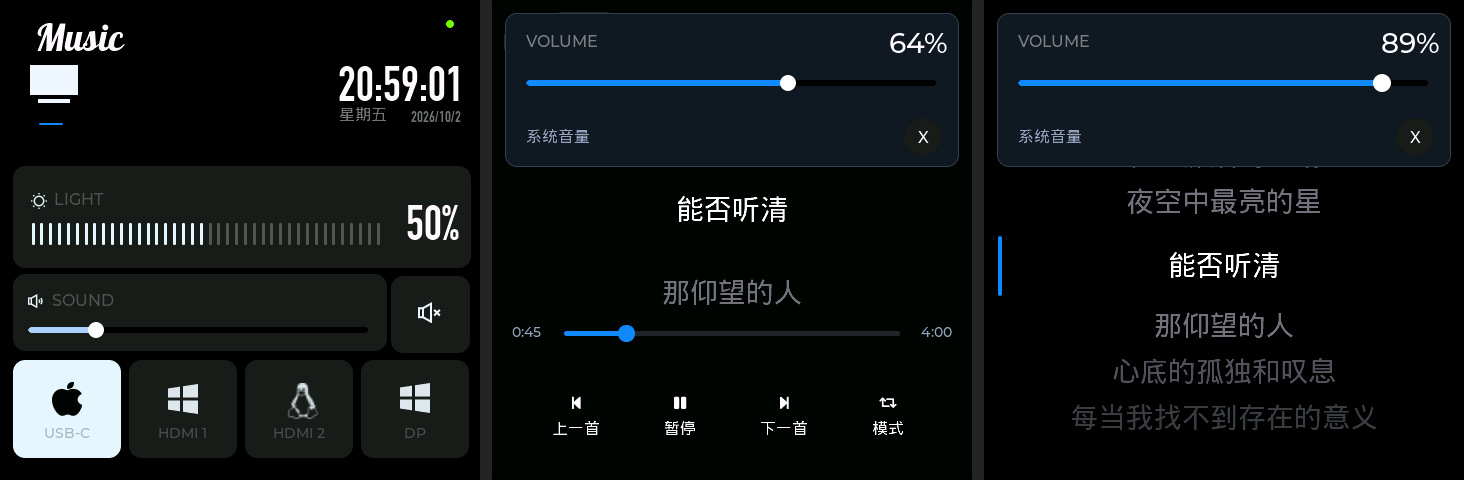
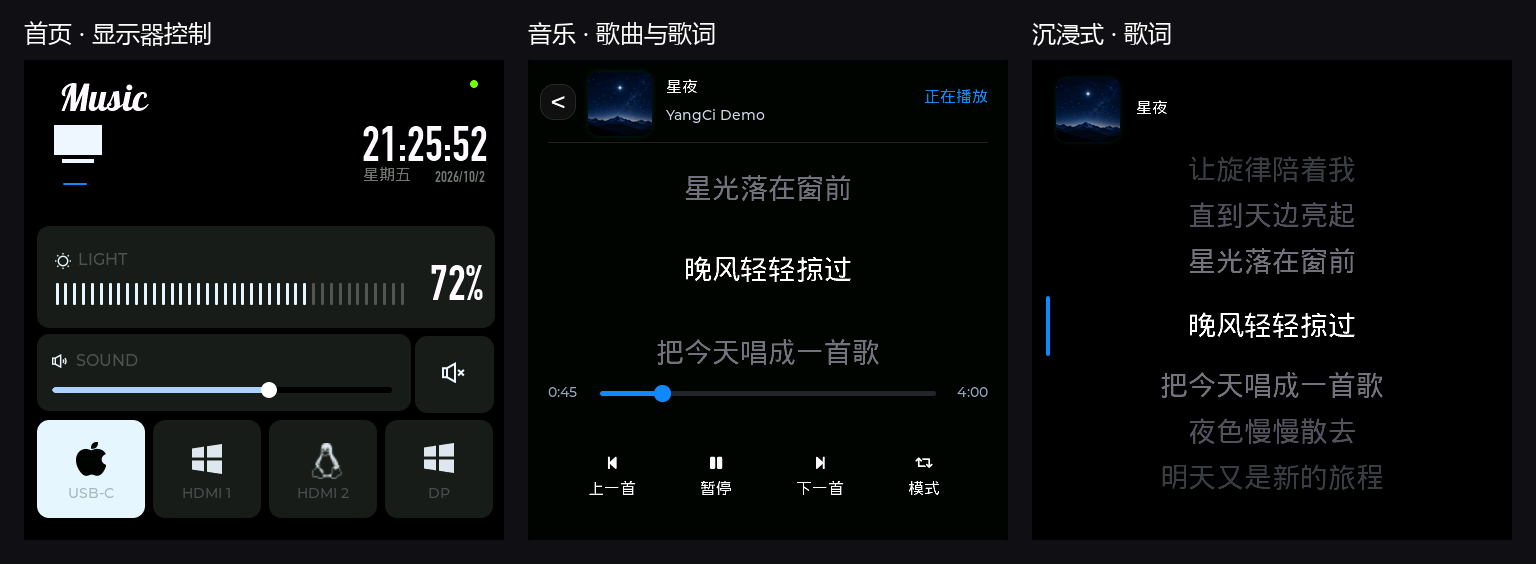
docs: explain desktop and Touch features with complete UI previews

diff --git a/README.md b/README.md
@@ -21,46 +21,83 @@ YangCi brings display controls into one desktop experience. It combines an
 Electron control center, a native Rust DDC/CI sidecar, and an optional 480×480
 ESP32-S3 touch controller called **AZORIA Touch**.
 
-The project is designed to run locally. Display control, Touch discovery, and
-coordination stay on the host or trusted private network; no cloud service is
-required for normal operation.
+The desktop app works independently; add Touch to keep display controls, music,
+lyrics, and wallpapers within reach. Display control and device communication
+stay on the host or trusted private network. Online lyric matching and artwork
+lookup contact the corresponding music services and require internet access.
+
+## Desktop app
+
+### Display controls
+
+![YangCi desktop: display selection, brightness, audio, input targets, and mute](docs/images/yangci-desktop-control.jpg)
+
+Choose a display, adjust brightness and audio, toggle mute, and select
+DisplayPort, HDMI 1, HDMI 2, USB-C, or the laptop's internal panel target. YangCi
+probes video-link DDC/CI and vendor USB HID routes and supports built-in or
+imported monitor profiles. External-monitor audio and input support depend on
+the monitor. For Windows / Linux internal-panel targets, volume and mute control
+the system's default playback device, including headphones.
+
+### Music and lyrics
+
+![YangCi desktop: artwork, track information, playback controls, and synchronized lyrics](docs/images/yangci-desktop-music.jpg)
+
+Read track, artist, album, artwork, and playback progress from system media
+sessions, with support for NetEase Cloud Music, QQ Music, and other desktop or
+browser players that expose media sessions. Match lyrics through NetEase, QQ
+Music, or LRCLIB and highlight the current line as playback advances.
+
+Control previous / next, play / pause, seeking, and playback modes where the
+player exposes those capabilities. Click a lyric line to seek; when seeking is
+unavailable, clicking can calibrate lyric timing. Connected Touch devices receive
+track information, lyrics, and playback state.
+
+### Touch setup, wallpaper, and scheduled sleep
+
+![YangCi desktop: Touch connection, Wi-Fi setup, scheduled sleep, and wallpaper](docs/images/yangci-desktop-touch.jpg)
+
+| Feature | What it does |
+| --- | --- |
+| Device setup | Identify Touch over USB, prepare Bluetooth and connect through BLE; optionally scan and configure 2.4 GHz Wi-Fi over USB for automatic LAN discovery. |
+| Still / video wallpaper | Center-crop media to 480×480 and convert it into a Touch-compatible package for LAN synchronization. TF storage takes priority: videos up to 10 seconds, targeting 25 frames, with a 24 MB package limit; without a card, keep packages under 3 MB. |
+| Idle wallpaper | Enter wallpaper after 1, 5, 10, or 30 idle minutes, or disable automatic entry. Tap the wallpaper to return. |
+| Scheduled sleep | Configure a backlight-off interval, including overnight schedules; backlight resumes when the interval ends. Disabled by default, with a preset of 23:00–07:00. |
+| Diagnostics | View control success rate, average / P95 latency, route failures, readback mismatches, and recent events. |
+| Profiles and development | Use the profile wizard or import a profile in Settings. Enable the normally hidden Developer page to select an application firmware image, verify device identity and file hash, and flash over USB. |
 
 ## AZORIA Touch interface
 
-![AZORIA Touch: Music entry, music volume panel, and immersive lyrics volume panel](docs/images/azoria-touch-ui-overview.png)
+![AZORIA Touch normal views: display controls, music, and immersive lyrics](docs/images/azoria-touch-ui-overview.png)
 
-| Music: swipe down for volume | Immersive lyrics: swipe down for volume |
+| View | Features and gestures |
 | --- | --- |
-| ![Music view with the system volume panel open](docs/images/azoria-touch-music-volume.png) | ![Immersive lyrics with the system volume panel open](docs/images/azoria-touch-immersive-volume.png) |
+| Home | Time and connection status, display brightness, audio, mute, and input targets. Swipe down from the top to adjust the small screen's backlight. |
+| Music | Tap the **Music** wordmark to see artwork, track information, lyrics, progress, and playback controls. |
+| Immersive lyrics | Tap the current lyric to enter a large-text lyric view; tap the page to return to Music. |
+| Volume gesture | Swipe down from the top of either music view to adjust volume, synchronized with Home and Desktop. Swipe up or tap × to close and stay on the current page. Home's backlight panel also closes with a swipe up. |
+| Wallpaper | Tap the computer icon below Music or wait for the configured idle interval. Tap once to return. |
 
-Current 480×480 UI rendered directly with LVGL using sample music data. Tap the
-Music wordmark to enter music; swipe down from the top of either music view to
-adjust system volume, then swipe up or tap × to close the panel and stay on that
-page. The home screen's backlight panel also supports swipe-up dismissal.
+BLE works independently for everyday controls, track information, and lyrics.
+**Artwork and wallpaper synchronization require Touch and Desktop on the same
+LAN.** Live playback uses artwork from the player or supported music service;
+the documentation's demo cover does not replace live track artwork.
 
-The optional Touch controller puts everyday display actions within reach while
-the Desktop app handles discovery, coordination, native DDC/CI access, and
-firmware management in the background.
+Desktop screenshots render the current React components; Touch screenshots
+render the current 480×480 LVGL implementation. Device status, the fictional
+track “星夜 / YangCi Demo,” and lyrics are demonstration data, with original demo
+artwork. See [screenshot and asset notes](docs/images/README.md).
 
-When a TF card is available, Touch stores wallpaper packages on the card and
-accepts Desktop-generated videos up to 10 seconds, targeting 25 frames, and
-24 MB. Without a card it falls back to the onboard data partition and a package
-limit near 3 MB. For the enclosure, print
-`hardware/enclosure/azoria-touch-all-v3.stl` to produce the front, rear, and both
-stand designs on one plate without the fit test coupon.
+For the enclosure, print `hardware/enclosure/azoria-touch-all-v3.stl` to produce
+the front, rear, and both stand designs on one plate without the fit test coupon.
 
-## Why YangCi
+## Architecture and device capabilities
 
-- **One control surface** for brightness, volume, mute, and input switching.
-- **Real transport probing** across video-link DDC/CI and vendor USB HID paths.
-- **Multi-monitor targeting** across enumerated DDC/CI displays.
-- **Native hardware access** through a Rust sidecar for macOS, Windows, and Linux.
-- **Optional physical controller** with BLE and private-LAN connectivity.
-- **TF-card wallpapers** with still images and up to 10 seconds of Desktop-converted video.
-- **Synchronized music view** with lyrics, playback controls, progress, and artwork from desktop or browser players.
-- **Resilient coordination** when multiple Desktop instances can reach the same display.
-- **Safe firmware workflow** with image type, version, device identity, size, and SHA-256 checks.
-- **Declarative monitor profiles** with validated, non-executable configuration.
+- Electron + React desktop UI with allowlisted IPC into local services.
+- Native Rust sidecar for DDC/CI, LG USB HID/DDC, and supported internal-panel controls.
+- Optional Touch controller with independent BLE and private-LAN connections.
+- Coordinated command execution across multiple Desktop instances, including duplicate-command suppression.
+- Firmware BLE OTA service with size and SHA-256 checks; Desktop provides USB application-image flashing.
 
 ## How it fits together
 
@@ -149,7 +186,8 @@ Select this `firmware.bin` from the **Developer** page in YangCi. Do not
 select `bootloader.bin` or `partitions.bin`; those files are not accepted by the
 Desktop flashing workflow.
 
-To upload directly with PlatformIO:
+To upload directly with PlatformIO (replace the port with your device's port;
+for example, `COM7` on Windows):
 
 ```bash
 cd firmware
@@ -225,10 +263,6 @@ schema and the validated LG 32UQ85R mapping.
 ## Connectivity and security
 
 - BLE and Wi-Fi can independently connect AZORIA Touch to YangCi.
-- Tap the Music wordmark on Touch to view the current track and control previous,
-  play/pause, next, and playback mode through the local network.
-- Swipe down from the top of either music or immersive lyrics view to open the
-  system volume panel. Swipe up or tap × to dismiss it without leaving the current view.
 - LAN coordination uses TCP `8732`, UDP `8733`, and UDP `8734`.
 - Network services reject public-source traffic and are intended only for a
   trusted private network.

diff --git a/README.zh-CN.md b/README.zh-CN.md
@@ -9,37 +9,75 @@
 
 </div>
 
-一个本地运行的桌面显示器控制项目。YangCi 是主控制端，AZORIA Touch
-是可选的 480×480 ESP32-S3 实体输入终端。
+YangCi 是本地运行的桌面控制中心：调节显示器、查看正在播放的音乐和歌词，
+并管理可选的 **AZORIA Touch** 小屏。桌面 App 可独立使用；接入 480×480 ESP32-S3
+触摸屏后，常用控制、歌词和壁纸就能放在手边。
 
-## AZORIA Touch 界面
+显示器控制和设备通信在本机或私有局域网内完成。在线歌词匹配与封面补全会访问
+对应音乐服务，因此这部分需要网络。
 
-![AZORIA Touch：Music 入口、普通音乐页音量面板、沉浸式歌词音量面板](docs/images/azoria-touch-ui-overview.png)
+## 桌面端 App
 
-| 普通音乐页：下滑调节音量 | 沉浸式歌词：下滑调节音量 |
+### 显示器控制
+
+![YangCi 桌面 App：显示器选择、亮度、音量、信号源与静音](docs/images/yangci-desktop-control.jpg)
+
+选择当前控制的显示器，调节亮度、音量和静音，切换 DisplayPort、HDMI 1、HDMI 2、
+USB-C 或笔记本内屏目标。程序自动探测视频链路 DDC/CI 与 USB HID 路径，并支持
+内置或导入的显示器配置表。外接屏的音量与信号源能力取决于显示器；选择 Windows / Linux
+笔记本内屏时，音量和静音控制系统默认播放设备，包括耳机。
+
+### 音乐与歌词
+
+![YangCi 桌面 App：封面、歌曲信息、播放控制与同步歌词](docs/images/yangci-desktop-music.jpg)
+
+读取系统媒体会话中的歌曲、歌手、专辑、封面和播放进度，适配网易云音乐、QQ 音乐
+以及提供媒体会话的其他桌面或网页播放器。歌词可从网易云、QQ 音乐或 LRCLIB 匹配，
+当前句随进度高亮。
+
+提供上一首、播放 / 暂停、下一首、进度拖动及播放模式控制；按钮是否可用由播放器
+实际提供的能力决定。点击歌词可跳转到该句；未提供跳转能力的播放器可用点击歌词
+校准同步进度。连接 Touch 后，歌曲信息、歌词和播放状态同步到小屏。
+
+### Touch 连接、壁纸与息屏
+
+![YangCi 桌面 App：Touch 连接、Wi-Fi 配置、定时息屏与壁纸](docs/images/yangci-desktop-touch.jpg)
+
+| 功能 | 使用方式 |
 | --- | --- |
-| ![普通音乐页打开系统音量面板](docs/images/azoria-touch-music-volume.png) | ![沉浸式歌词页打开系统音量面板](docs/images/azoria-touch-immersive-volume.png) |
+| 设备连接 | USB 识别 Touch、准备蓝牙并连接 BLE；也可通过 USB 扫描和配置 2.4 GHz Wi-Fi，随后自动发现局域网设备。 |
+| 图片 / 动态壁纸 | 上传图片或视频，自动居中裁切为 480×480 并转换成小屏可播放格式，通过局域网同步。TF 卡优先；动态壁纸最长 10 秒、目标 25 帧、最多 24 MB，无卡时壁纸需小于 3 MB。 |
+| 自动进入壁纸 | 无操作 1、5、10 或 30 分钟后进入，也可关闭；触摸壁纸返回控制页。 |
+| 定时息屏 | 自定义开始和结束时间，支持跨午夜；时段内关闭 Touch 背光，结束后恢复。默认关闭，预设时间为 23:00–07:00。 |
+| 诊断 | 查看控制成功率、平均 / P95 耗时、路径失败和回读不一致，以及最近事件。 |
+| 配置与开发 | 设置中使用配置向导或加载显示器配置表；开启默认关闭的开发者模式后，可选择应用固件，校验设备身份与文件哈希并通过 USB 刷写。 |
 
-以上为当前 480×480 界面的 LVGL 直接渲染预览，音乐内容使用示例数据。
-点击 Music 字标进入音乐页；普通音乐页和沉浸式歌词页均可从顶部下滑调节系统音量，
-向上滑动或点击 × 收起面板后仍停留在当前页面。首页的屏幕亮度面板也支持上滑收起。
+## AZORIA Touch 小屏
 
-Touch 负责把常用的显示器操作放在手边，Desktop 则在后台完成设备发现、协调、原生
-DDC/CI 访问和固件管理。
+![AZORIA Touch 正常页面：显示器控制、音乐与沉浸式歌词](docs/images/azoria-touch-ui-overview.png)
 
-## 功能
+| 页面 | 功能与操作 |
+| --- | --- |
+| 首页 | 查看时间、连接状态，调节显示器亮度、音量、静音和控制源；从顶部下滑调节小屏背光。 |
+| 音乐 | 点击左上角 **Music** 字标进入，显示封面、歌曲信息、歌词和播放进度，提供切歌、播放 / 暂停和模式切换。 |
+| 沉浸式歌词 | 点击音乐页的当前歌词进入，以大字显示当前句及前后歌词；点击页面返回普通音乐页。 |
+| 下滑调节音量 | 普通音乐页和沉浸式页面均可从顶部下滑调节音量，与首页和桌面端同步；向上滑动或点击 × 收起，仍停留在当前页面。首页的背光面板也支持上滑收起。 |
+| 壁纸 | 点击 Music 下方的电脑图标进入，或等待设置的空闲时间；触摸一次返回。 |
 
-- Electron 桌面控制中心，提供亮度、音量、静音和信号源控制；
-- 自动探测并确认整台显示器统一使用的 DDC/CI 承载路径；
-- 枚举多台 DDC/CI 显示器，并在桌面端切换当前控制目标；
-- 在桌面端检测 AZORIA Touch 并完成 Wi‑Fi 配置；
-- 在桌面端上传图片或视频壁纸，并自动同步到 Touch 的壁纸模式；
-- 优先使用 TF 卡保存壁纸，桌面端生成最长 10 秒、目标 25 帧的动态壁纸；
-- 同步桌面或网页播放器的歌曲、歌词、进度、播放控制和封面；
-- 设置中提供默认关闭的开发者模式，用于固件刷写和硬件诊断；
-- Desktop 主动发现、Touch 被动响应的 Wi‑Fi 局域网通信，以及 BLE 备用连接；
-- 固件内置带大小与 SHA-256 校验的 BLE OTA 服务；
-- Rust Sidecar 提供跨平台原生 DDC/CI 与 LG USB HID/DDC 控制。
+BLE 可独立用于日常控制、歌曲信息与歌词同步；**封面和壁纸同步需要 Touch 与桌面端
+接入同一局域网**。实际封面来自播放器或音乐服务，示例封面不会替换正在播放的歌曲封面。
+
+以上桌面截图由当前 React 界面渲染，小屏截图由当前 LVGL 界面直接渲染；设备状态、
+歌曲“星夜 / YangCi Demo”和歌词均为演示数据，封面为原创示例图。详见
+[截图与素材说明](docs/images/README.md)。
+
+## 架构与设备能力
+
+- Electron + React 桌面界面，通过白名单 IPC 调用本机服务；
+- Rust Sidecar 提供原生 DDC/CI、LG USB HID/DDC，以及平台支持的笔记本内屏控制；
+- Desktop 主动发现、Touch 被动响应，支持 BLE 和私有 Wi-Fi 局域网；
+- 多台 Desktop 在线时协调执行显示器命令，避免同一命令重复写入；
+- 固件内置带大小与 SHA-256 校验的 BLE OTA 服务；桌面端提供 USB 应用固件刷写入口。
 
 ## 目录
 
@@ -70,7 +108,7 @@ azoria-display-control/
 
 ## 快速开始
 
-开发环境需要 Node.js、Rust 和 PlatformIO。
+开发环境需要 Node.js 22 或更高版本与 Rust；仅构建小屏固件时需要 PlatformIO。
 
 ```bash
 npm install
@@ -90,7 +128,7 @@ Touch 通过 Wi‑Fi 或 BLE 建立连接后，由 Desktop 状态响应同步当
 偏移，因此屏幕时间跟随当前 Desktop，不依赖固定时区或单独的公网 NTP 服务。
 
 点击 Touch 控制页左上角的 Music 字标可打开音乐页。音乐页显示 Desktop 当前识别的
-歌曲、歌手和播放模式，并可通过局域网执行上一首、播放/暂停、下一首和模式切换。
+歌曲、歌手和播放模式，并可通过 BLE 或局域网执行上一首、播放/暂停、下一首和模式切换。
 在音乐页或沉浸式歌词页顶部向下滑动，可打开系统音量面板；调节后向上滑动或点击 × 收起，
 无需返回控制页。音量会与控制页及 Desktop 同步。
 
@@ -137,7 +175,8 @@ firmware/.pio/build/viewe_uedx48480040e_wb_a/firmware.bin
 固件版本来自 `firmware/version.txt`，构建前应先更新版本号。`.pio/` 是本地构建目录，
 不会提交到仓库；发布版本应把经过测试的 `firmware.bin` 作为独立发布附件提供。
 
-也可以绕过 Desktop，直接由 PlatformIO 构建并上传当前源码：
+也可以直接由 PlatformIO 构建并上传当前源码；将示例端口替换为设备的实际端口，
+Windows 下例如 `COM7`：
 
 ```bash
 cd firmware

diff --git a/docs/images/README.md b/docs/images/README.md
@@ -1,0 +1,24 @@
+# UI preview assets
+
+These screenshots render the current application components with demonstration
+data. They are not photographs of a connected device or evidence of hardware
+validation. Desktop views use the actual React renderer and stylesheet; Touch
+views use the actual 480×480 LVGL screen implementation. Dropdown panels are
+closed in the documentation screenshots.
+
+The fictional track **星夜 / YangCi Demo**, its sample lyric lines, device status,
+and wallpaper synchronization status are preview fixtures. The cover is original
+demo artwork, not the official artwork of a music release. Actual playback uses
+the artwork returned by the detected player or supported music metadata provider.
+
+## Original demo cover
+
+- File: `azoria-demo-cover.png` (512×512).
+- Generated with the built-in image generation tool; then resized for the
+  documentation and converted to 64×64 RGB565 for the LVGL preview fixture.
+- Prompt:
+
+> Create one original square music demo cover for a local music control app's documentation. A deep midnight-blue sky above a simple dark mountain horizon, one luminous warm white star with a restrained blue glow, subtle faint stars. Elegant atmospheric photographic illustration, strong readable composition even at 64x64 pixels. No lettering, no logos, no borders, no people. This is original placeholder art and must not imitate any existing album cover.
+
+The demo cover is used only by documentation preview fixtures; it does not
+replace live player artwork in the application.
